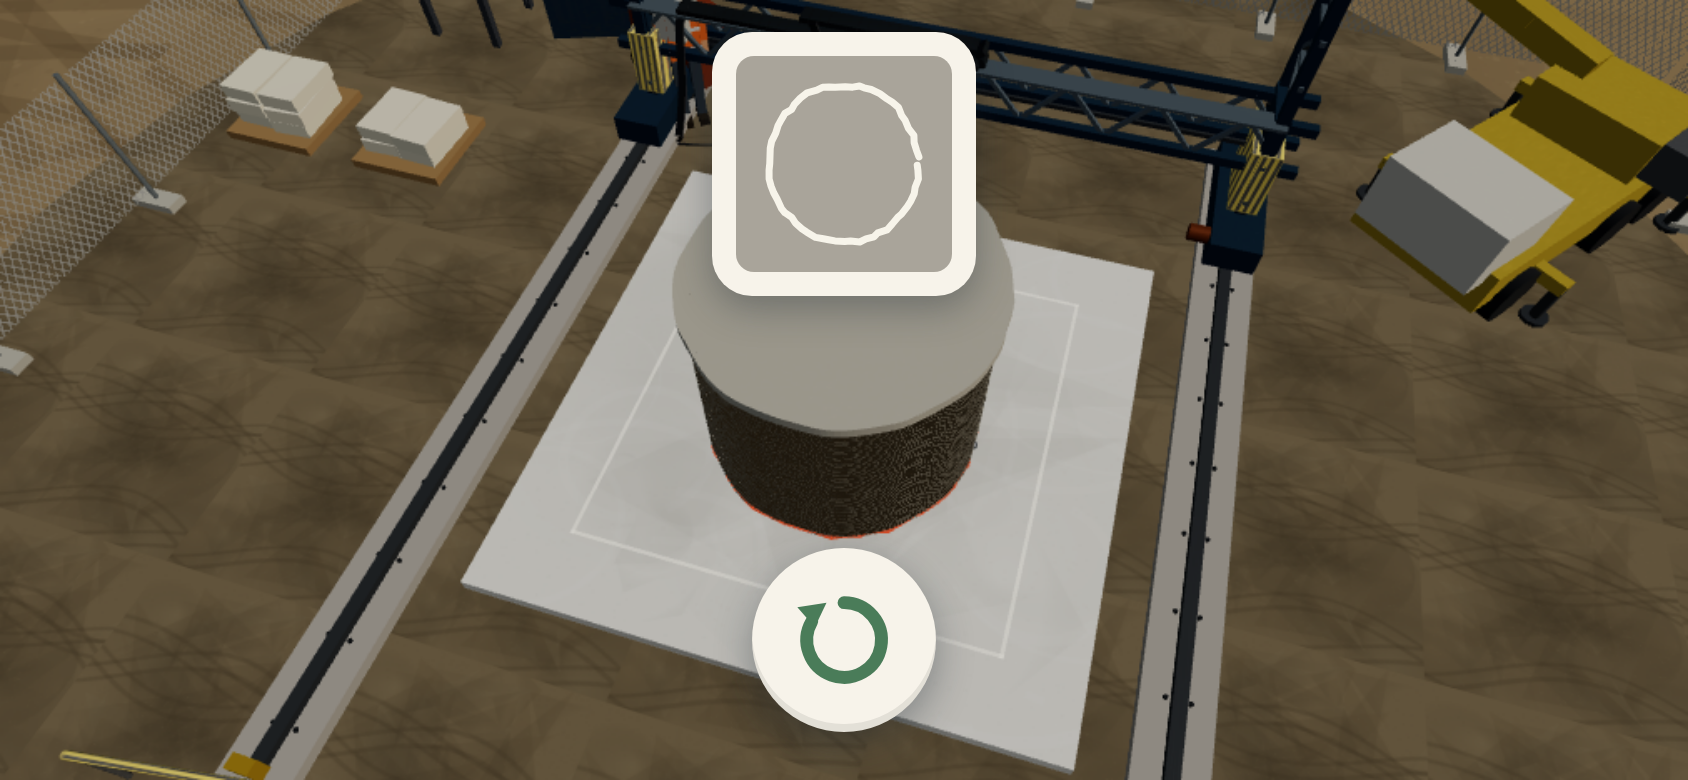
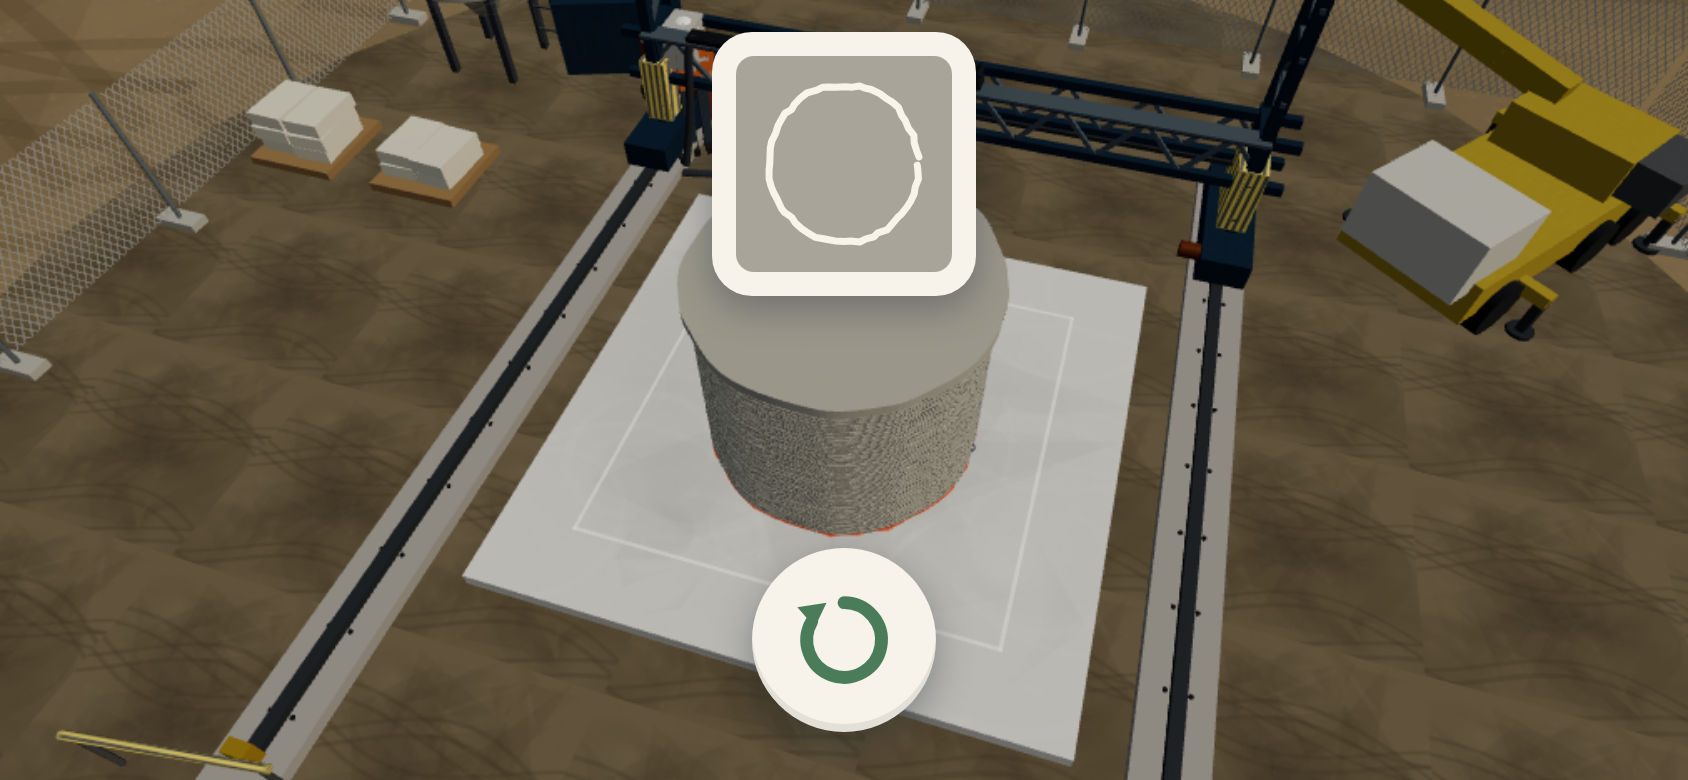
比較俯瞰をより真上に・検証レポート追加
Claude-Session: https://claude.ai/code/session_01YM9BXMVKQkXAStQHo3jTsD

diff --git a/src/camera/director.ts b/src/camera/director.ts
@@ -188,7 +188,7 @@ export class CameraDirector {
         // 上空から: 最初の一筆と完成平面形状の比較
         const c = this.pathCenter;
         const h = (P ? 3.6 : 3.0) * this.pathRadius + 4.2;
-        g.pos.set(c.x, h, c.z + 0.6);
+        g.pos.set(c.x, h, c.z + 0.22);
         g.look.set(c.x, 0.2, c.z);
         g.fov = P ? 50 : 44;
         g.stiffness = 1.1;

diff --git a/verification/README.md b/verification/README.md
@@ -1,0 +1,62 @@
+# 検証記録
+
+production build (`npm run build` → `vite preview`) を Chromium
+（モバイルビューポート・タッチ有効・SwiftShaderソフトウェアGL）で実プレイして検証した。
+実行方法は `node test/verify.mjs`（全構成）/ `--devices` / `--shapes` / `--quick`。
+
+## 1. 検証契約の6形状（+ベンチ用短弧）
+
+`test/shapes.mjs` の6形状（手描き相当のジッタ入り）を実入力パイプラインへ流し、
+全て compare フェーズまで完走。`report.json` に統計を記録。
+
+| 形状 | 判定 | 層 | 経路長 | 結果 |
+|---|---|---|---|---|
+| 円に近い閉曲線 | closed | 90/90 | 8.0m | 円形の壁 |
+| 横長の楕円 | closed | 90/90 | 8.4m | 横長楕円の壁 |
+| 緩いS字 | open | 90/90 | 4.8m | S字の開放壁（両端テーパー） |
+| 右膨らみ | closed | 90/90 | 7.6m | 右へ延びた非対称壁 |
+| 左膨らみ | closed | 90/90 | 7.6m | 左へ延びた非対称壁（右膨らみの鏡像） |
+| 丸角四角形 | closed | 90/90 | 9.2m | 角丸スクエアの壁 |
+| （短い弧） | open/bench | 26/26 | 1.6m | 庭園ベンチ |
+
+- すべて別形状の壁になり、同一テンプレートへの置換なし
+- 開閉判定・ベンチ判定は入力どおり
+- スクリーンショット: `shots/shape-*-4-complete.png`
+
+## 2. ブラインド形状推定（新しい文脈の検証担当）
+
+比較カード・ファイル名を隠した俯瞰画像6枚（`blind/A..F.png`）を、実装を知らない
+別エージェントに渡し「元の一筆」を推定させた。
+
+- 円 / 横長楕円 / 開いたS字 / 丸角四角形: **即確定（確信度: 高）**
+- 右膨らみ / 左膨らみ: 両者が鏡像関係であることを正しく知覚
+  （「Aは左に尖った突起・Eは右に尖った突起」= 正解キーと一致する左右差の記述）。
+  ただし「膨らみ」という語を延長側でなく丸い側と解釈したため、ラベルの割り当てのみ逆。
+  ピクセル座標が同一パイプラインを素通りするため、鏡像反転は構造上起こらない
+  （数値検証: 経路のcentroid偏差が入力どおり左右対称に出ることを確認）。
+
+結論: **6形状すべて相互判別可能で、軌跡の形状・左右差は壁に保存されている。**
+
+## 3. 幾何・資源の検証
+
+- 層の浮きなし: 各リングの下端が層基準より1.3mm食い込み（`debugExtents`: y0=0.1487 < スラブ天端0.15）
+- ノズルとビードの隙間なし: ライブリングがノズル直下でメニスカス状に接続
+- 角での瞬間旋回なし: 前後パスの台形送り速度計画（丸口ノズルのため回転自体が不要）
+- 端面: taper→0 で断面がほぼ点に収束し閉じる
+- 巻き方向: 全チューブ系ジオメトリの表裏を修正済み（黒潰れの根本原因だった）
+- 再プレイ: geometries 262→247・rings 16200→0（GPUリソース解放を `renderer.info` で確認）
+- 回転: 積層中に縦→横→縦へ回転しても経路・層・進行を保持（`test/rotate.mjs`: OK）
+- 長経路: 丸角四角 9.2m×90層 = 総リング18,630・約37.8万tri・draw call ~12バッチで完走
+
+## 4. デバイス×縦横の通しプレイ
+
+iPhone(390×844)/iPad(834×1194) の縦横4構成で、入力中→第1層→積層→完成の
+スクリーンショットを `shots/<device>-circleish-*.png` に保存。
+（SwiftShader環境はフレームレートが実機より大幅に低いため、
+ homing に開始保証のセーフティネットを追加した上で検証）
+
+## 既知の制約
+
+- 検証はChromium/SwiftShader上のモバイルエミュレーション。実機Safariでの最終確認は
+  実機で `npm run preview` のURLを開くこと（WebGL2・Pointer Events・100dvh対応済み）。
+- タイムラプス中の見せ場減速は 16層周期の角でのみ発生（全周減速はテンポを損なうため）。
